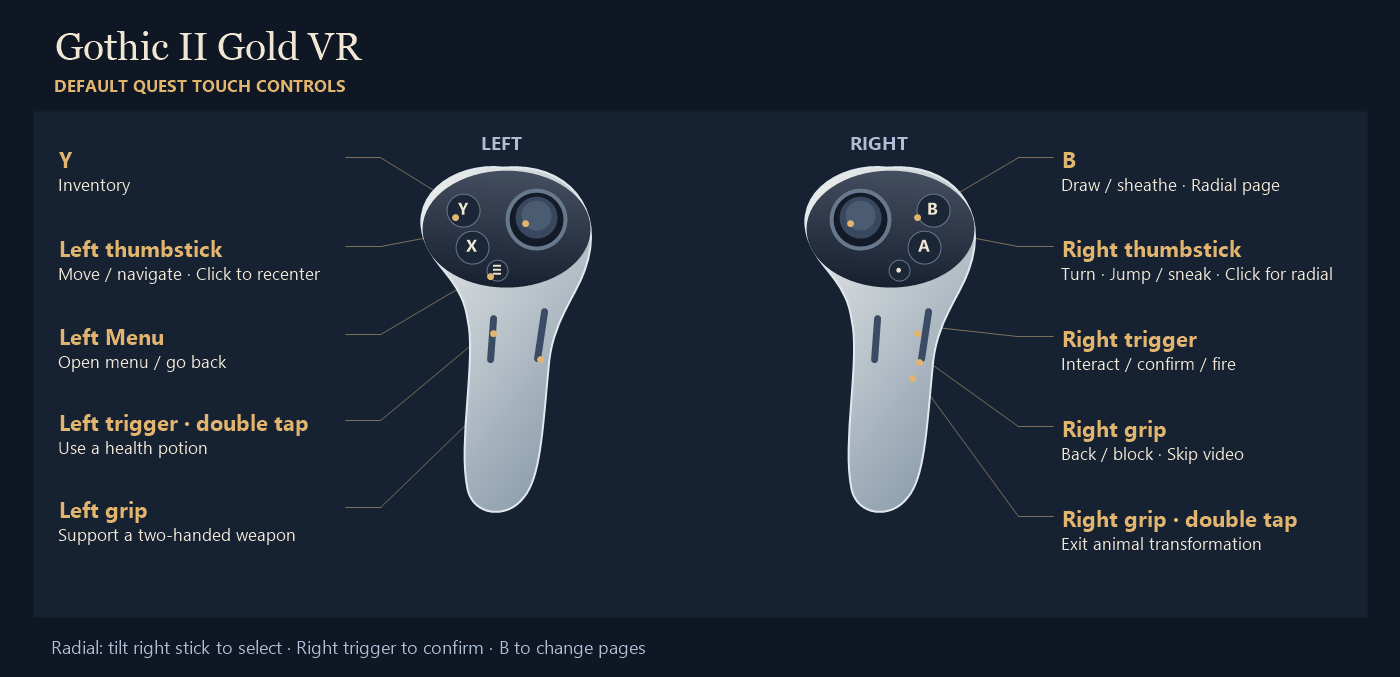
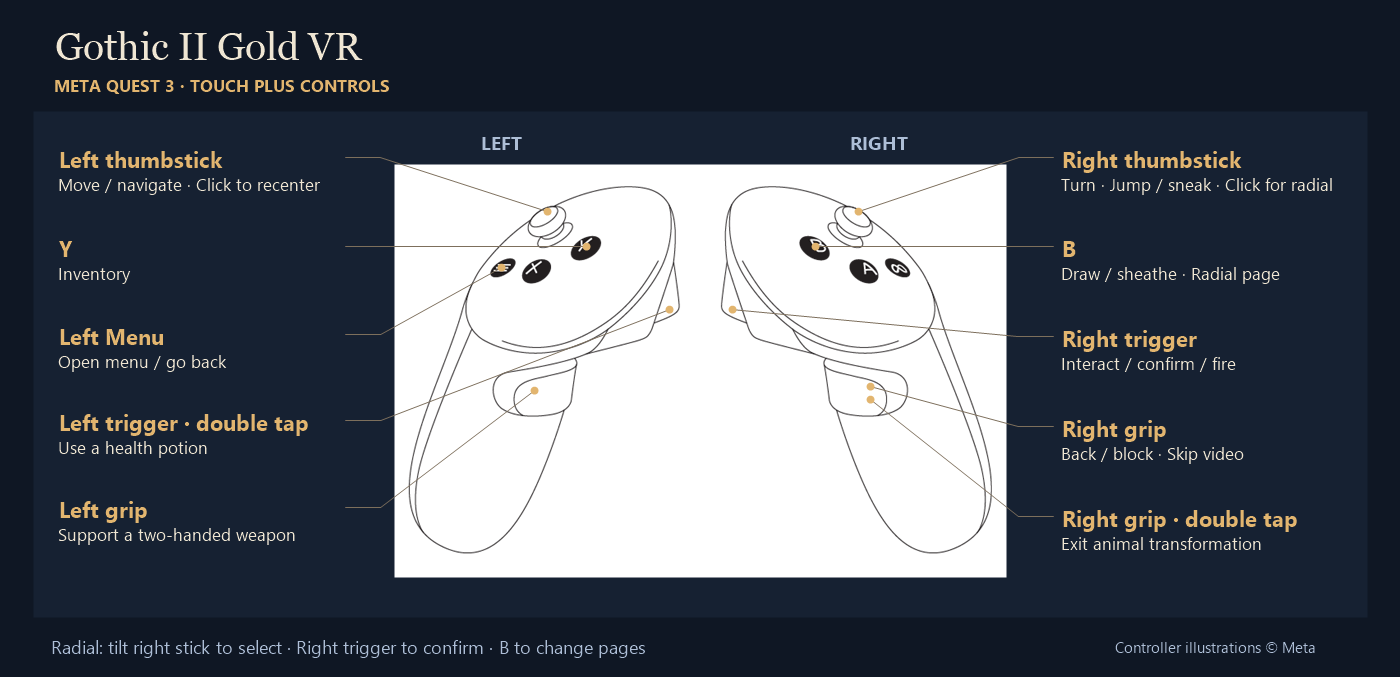
Show Meta Quest 3 Touch Plus controllers in the controls guide

diff --git a/README.md b/README.md
@@ -33,7 +33,7 @@ Gothic II Gold VR is a PC VR mod by **PeCOS2k5**. It renders Gothic II in native
 - **Union Primary Universal**, **Union 1.0m**, and **GD3D11 17.8 rev. SK9** in each VR copy. The launcher checks the required versions. [Union downloads](https://worldofplayers.ru/threads/40376/) · [GD3D11 SK9 release](https://github.com/SaiyansKing/GD3D11/releases/tag/v17.8-rev%27SK9)
 - A compatible OpenXR runtime. Choose **Virtual Desktop (VDXR)**, **SteamVR**, or **Quest Link / Air Link (SteamVR)** in the launcher. Connect your headset before launching. The Quest Link option uses SteamVR as the OpenXR runtime.
 
-The reference controllers are Quest Touch. The launcher has an OpenXR button mapper for other controllers. Available buttons and axes depend on the controller and runtime.
+The reference controllers are Meta Quest 3 Touch Plus. The launcher has an OpenXR button mapper for other controllers. Available buttons and axes depend on the controller and runtime.
 
 ## Installation
 
@@ -44,9 +44,11 @@ The reference controllers are Quest Touch. The launcher has an OpenXR button map
 
 Each prepared game lives in the launcher's `Games` folder. Preparing a VR copy leaves the original installation and its saves in place. If Archolos is missing, its launch button stays disabled until you prepare a valid copy. **Repair VR copy** backs up an incomplete copy and transfers its VR saves into the replacement. Updating or uninstalling the launcher keeps its game copies, settings, and saves.
 
-## Default Quest Touch controls
+## Default Meta Quest 3 controls
 
-![Diagram of the default Quest Touch controller bindings](assets/quest-touch-controls.png)
+![Diagram of the default Meta Quest 3 Touch Plus controller bindings](assets/quest-touch-controls.png)
+
+Controller illustrations from [Meta Quest Hardware Art](https://developers.meta.com/vr/downloads/package/oculus-controller-art/).
 
 | Input | Default action |
 | --- | --- |
